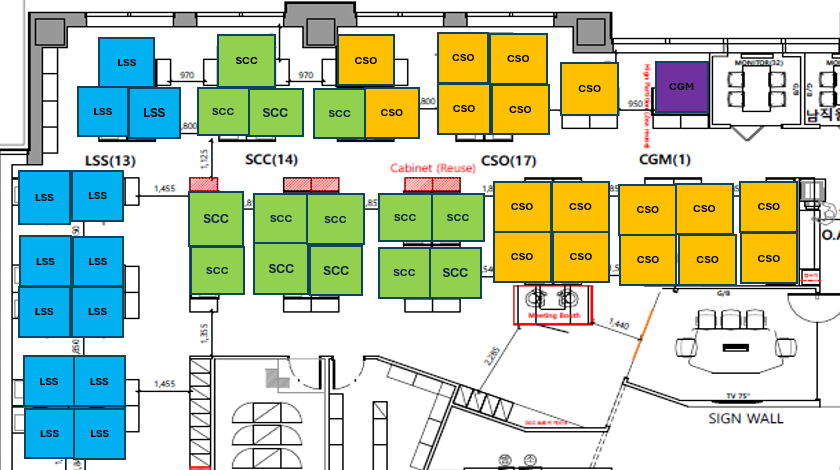
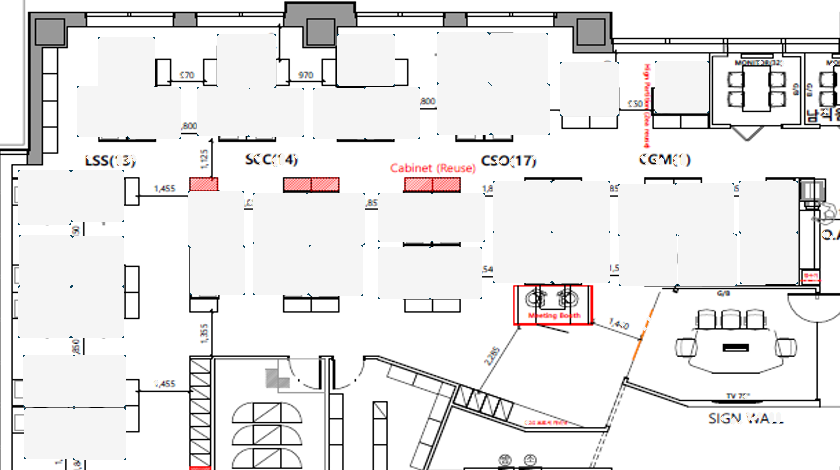
seat boxes: neutralize original colored boxes in floor image, draw non-overlapping boxes

diff --git a/seatmap/index.html b/seatmap/index.html
@@ -17,7 +17,7 @@ function render(a){
     else if(o){fill="#9ca3af";label=o.length>4?o.slice(0,4)+"…":o;cls="seat taken"}
     else{fill=ZONE[s.zone]||"#22c55e";label=s.id;txt=s.zone==="CSO"?"#333":"#fff"}
     g+=`<g class="${cls}" data-id="${s.id}" data-taken="${o?1:0}">
-        <rect x="${s.x-hw}" y="${s.y-hh}" width="${hw*2}" height="${hh*2}" rx="4" fill="${fill}" stroke="#1f2937" stroke-width="1.5"/>
+        <rect x="${s.x-hw}" y="${s.y-hh}" width="${hw*2}" height="${hh*2}" rx="3" fill="${fill}" stroke="#1f2937" stroke-width="1"/>
         <text x="${s.x}" y="${s.y+4}" font-size="${label.length>4?9:11}" text-anchor="middle" fill="${txt}" font-weight="bold">${label}</text>
         <title>${s.id} · ${s.zone} · ${o||"빈 자리 — 클릭하면 선점"}</title></g>`;
   }

diff --git a/test_app.py b/test_app.py
@@ -71,7 +71,7 @@ def test_seats_inside_crop():
     for a in seats:
         for b in seats:
             if a["id"] < b["id"]:
-                assert abs(a["x"] - b["x"]) >= 44 or abs(a["y"] - b["y"]) >= 40, (a["id"], b["id"])
+                assert abs(a["x"] - b["x"]) >= a["w"] + 4 or abs(a["y"] - b["y"]) >= a["h"] + 4, (a["id"], b["id"])
 
 
 def test_migrates_old_users_table():
